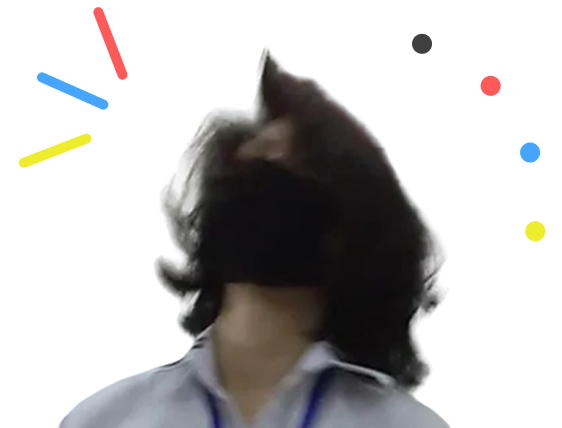
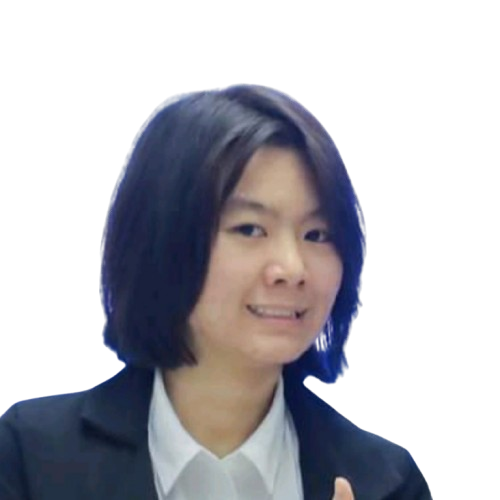
Add Google Analytic functions

diff --git a/index.html b/index.html
@@ -6,6 +6,16 @@
     <meta name="viewport" content="width=device-width, initial-scale=1.0" />
     <meta charset="UTF-8">
     <title>Beo Beo</title>
+
+    <!-- Google tag (gtag.js) -->
+    <script async src="https://www.googletagmanager.com/gtag/js?id=G-MWPRTYXTFB"></script>
+    <script>
+      window.dataLayer = window.dataLayer || [];
+      function gtag(){dataLayer.push(arguments);}
+      gtag('js', new Date());
+
+      gtag('config', 'G-MWPRTYXTFB');
+</script>
   </head>
   <body>
     <div id="root"></div>
